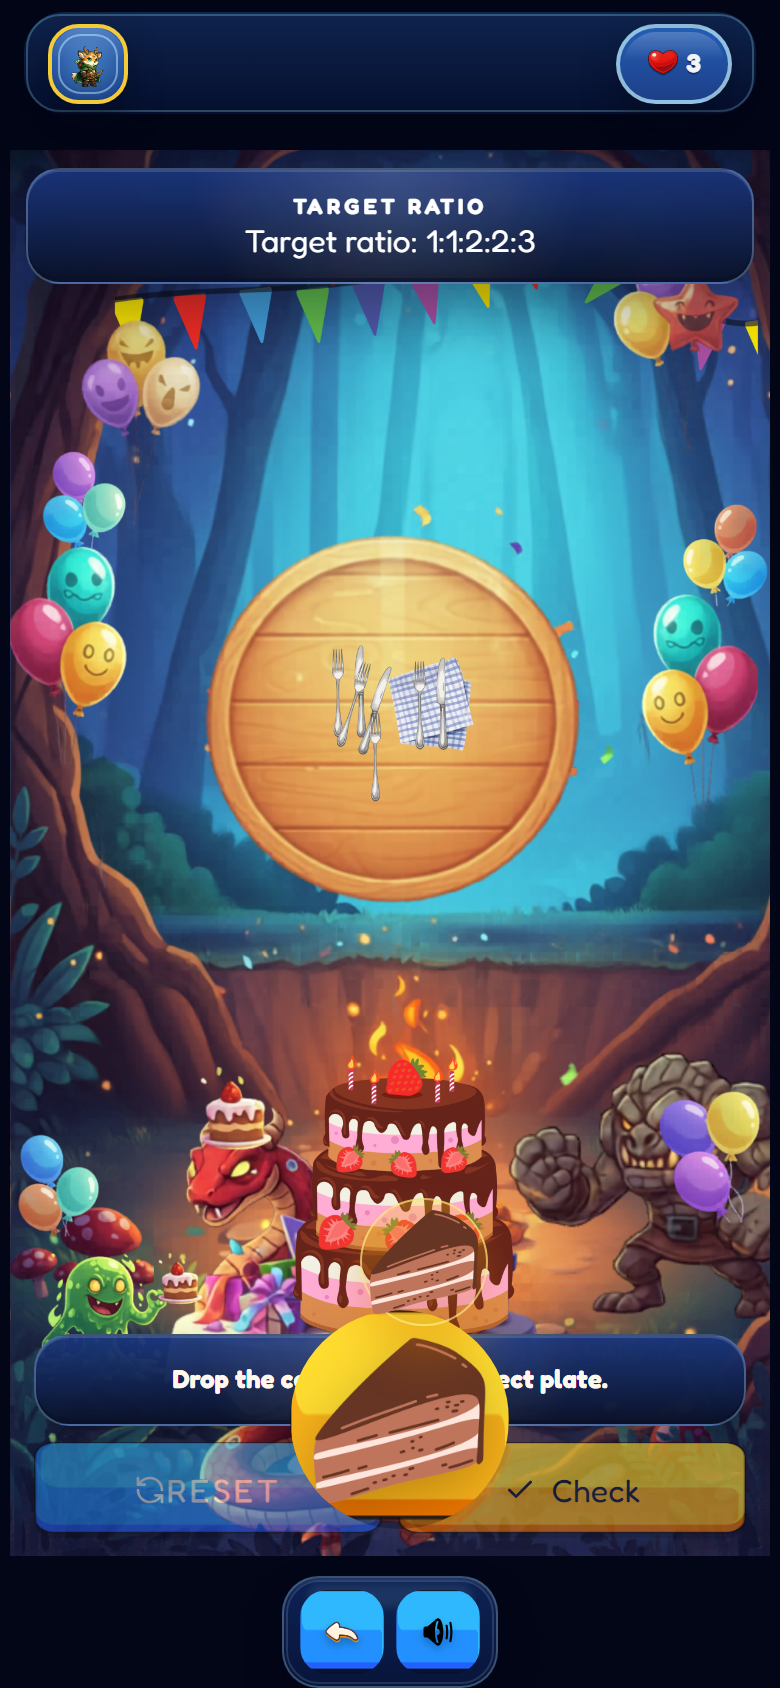
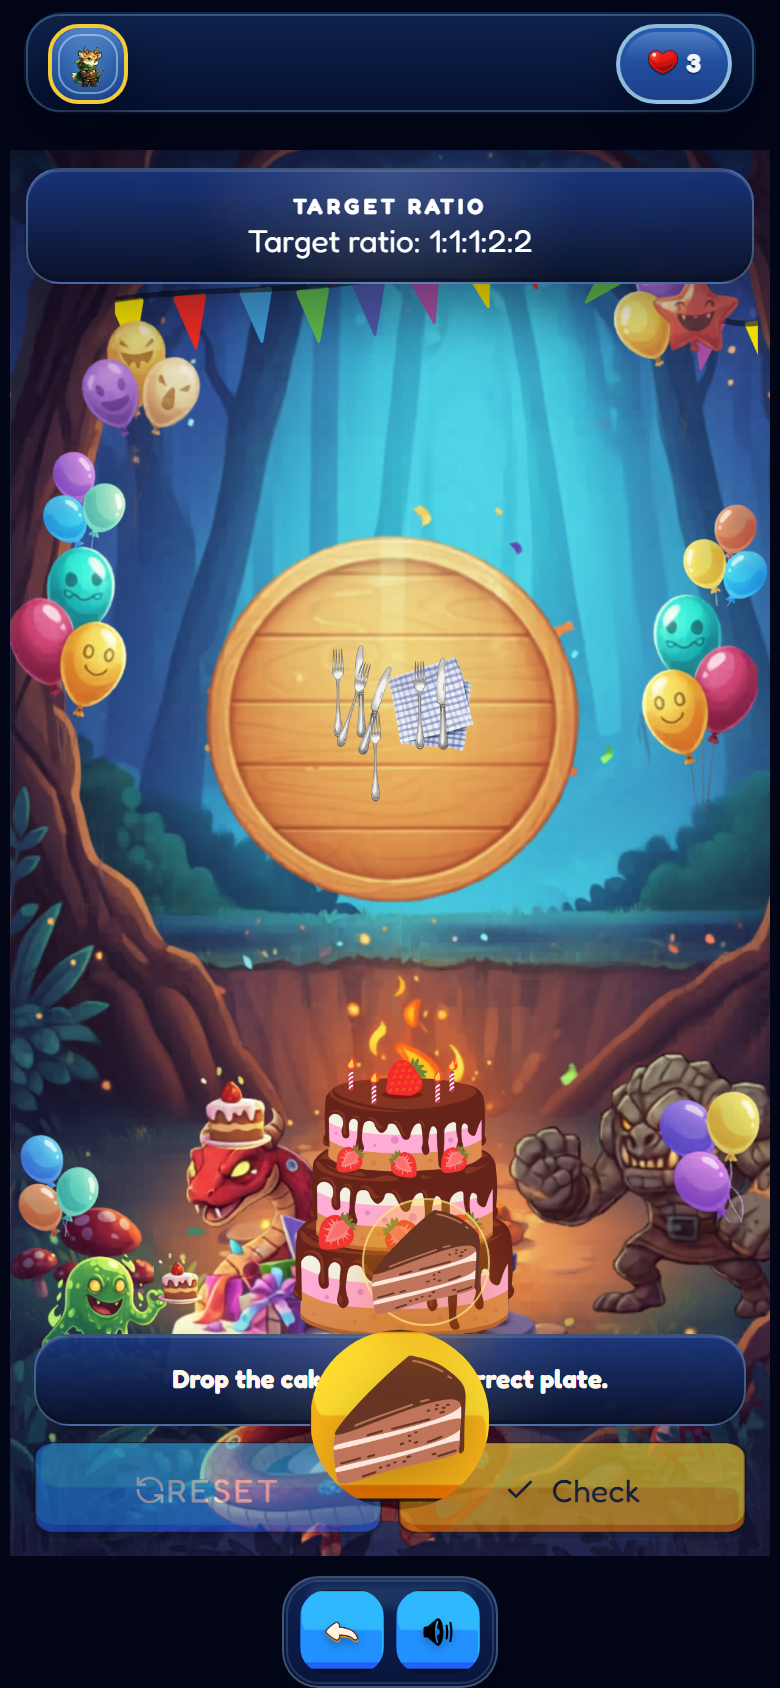
splitter

Changed region(s): [[0.3692, 0.7085, 0.6769, 0.9242], [0.3077, 0.1232, 0.6769, 0.154]]

diff --git a/src/games/ShareSplitterGame.tsx b/src/games/ShareSplitterGame.tsx
@@ -304,13 +304,16 @@ const ShareSplitterGame: React.FC<ShareSplitterGameProps> = ({
   const allSlicesUsed = remainingSlices === 0;
   const allCorrect = plateViews.every((plate) => plate.isCorrect);
   const platePositions = PLATE_POSITIONS_BY_COUNT[challenge.plateCount] || PLATE_POSITIONS_BY_COUNT[5];
+  const isCompactViewport = viewportRect.width < 520;
+  const plateLayoutScale = isCompactViewport ? 0.68 : 1;
+  const cakeSourceLayoutScale = isCompactViewport ? 0.76 : 1;
   const backgroundScale = Math.max(
     viewportRect.width / SHARE_SPLITTER_BACKGROUND_SIZE.width,
     viewportRect.height / SHARE_SPLITTER_BACKGROUND_SIZE.height,
   );
   const backgroundOffsetX = (viewportRect.width - (SHARE_SPLITTER_BACKGROUND_SIZE.width * backgroundScale)) / 2;
   const backgroundOffsetY = viewportRect.height - (SHARE_SPLITTER_BACKGROUND_SIZE.height * backgroundScale);
-  const plateSizePx = SHARE_SPLITTER_PLATE_DIAMETER_PX * backgroundScale;
+  const plateSizePx = SHARE_SPLITTER_PLATE_DIAMETER_PX * backgroundScale * plateLayoutScale;
   const promptText = isPractice
     ? `Target ratio: ${challenge.ratios.join(':')}`
     : `There are ${challenge.totalSlices} slices of brainpower cake.\nThe Monster Mind demands it is shared in a ratio of ${challenge.ratios.join(':')}.`;
@@ -334,11 +337,17 @@ const ShareSplitterGame: React.FC<ShareSplitterGameProps> = ({
     y: backgroundOffsetY + (point.y * backgroundScale),
   }), [backgroundOffsetX, backgroundOffsetY, backgroundScale]);
 
+  const getCakeSourceHitRect = useCallback(() => {
+    const cakeButton = cakeSourceButtonRef.current;
+    if (!cakeButton) return null;
+    return cakeButton.getBoundingClientRect();
+  }, []);
+
   const isPointInsideCakeSource = useCallback((clientX: number, clientY: number) => {
-    const center = mapBackgroundPointToViewport(CAKE_SOURCE_POSITION);
-    const radius = (CAKE_SOURCE_SIZE_PX * backgroundScale) / 2;
-    return Math.hypot(clientX - center.x, clientY - center.y) <= radius;
-  }, [backgroundScale, mapBackgroundPointToViewport]);
+    const rect = getCakeSourceHitRect();
+    if (!rect || rect.width <= 0 || rect.height <= 0) return false;
+    return clientX >= rect.left && clientX <= rect.right && clientY >= rect.top && clientY <= rect.bottom;
+  }, [getCakeSourceHitRect]);
 
   useEffect(() => {
     const handleGlobalPointerDown = (event: PointerEvent) => {
@@ -420,10 +429,6 @@ const ShareSplitterGame: React.FC<ShareSplitterGameProps> = ({
     sliceSeedRef.current += 1;
     const pointerId = 'pointerId' in event ? event.pointerId : 1;
     dragActiveRef.current = true;
-    const dragRevealThresholdPx = 6;
-    let dragOriginX = 0;
-    let dragOriginY = 0;
-    let dragHasBeenRevealed = false;
 
     const updatePosition = (clientX: number, clientY: number) => {
       setDragSlice({
@@ -431,16 +436,6 @@ const ShareSplitterGame: React.FC<ShareSplitterGameProps> = ({
         x: clientX - DRAG_SLICE_SIZE / 2,
         y: clientY - DRAG_SLICE_SIZE / 2,
       });
-    };
-
-    const revealDragSlice = (clientX: number, clientY: number) => {
-      if (dragHasBeenRevealed) return;
-      dragHasBeenRevealed = true;
-      updatePosition(clientX, clientY);
-      setFeedback('Drop the cake onto the correct plate.');
-      setFeedbackTone('neutral');
-      setValidationActive(false);
-      setHoverPlateIndex(null);
     };
 
     const getPlateCenter = (index: number) => {
@@ -487,20 +482,6 @@ const ShareSplitterGame: React.FC<ShareSplitterGameProps> = ({
     const finishDrag = (clientX: number, clientY: number) => {
       if (!dragActiveRef.current) return;
       dragActiveRef.current = false;
-      if (!dragHasBeenRevealed) {
-        setDragSlice(null);
-        setHoverPlateIndex(null);
-        window.removeEventListener('pointermove', handlePointerMove);
-        window.removeEventListener('pointerup', handlePointerUp);
-        window.removeEventListener('pointercancel', handlePointerCancel);
-        window.removeEventListener('touchmove', handleTouchMove);
-        window.removeEventListener('touchend', handleTouchEnd);
-        window.removeEventListener('touchcancel', handleTouchEnd);
-        window.removeEventListener('mousemove', handleMouseMove);
-        window.removeEventListener('mouseup', handleMouseUp);
-        window.removeEventListener('blur', handleMouseCancel);
-        return;
-      }
       const { index, distance } = getNearestPlate(clientX, clientY);
       const snapRadius = plateSizePx * 0.56;
       const hitIndex = getHitPlateIndex(clientX, clientY);
@@ -526,14 +507,6 @@ const ShareSplitterGame: React.FC<ShareSplitterGameProps> = ({
 
     const handlePointerMove = (moveEvent: PointerEvent) => {
       const point = getClientPoint(moveEvent);
-      if (!dragHasBeenRevealed) {
-        const distanceFromOrigin = Math.hypot(point.x - dragOriginX, point.y - dragOriginY);
-        if (distanceFromOrigin >= dragRevealThresholdPx) {
-          revealDragSlice(point.x, point.y);
-        } else {
-          return;
-        }
-      }
       updatePosition(point.x, point.y);
       const hitIndex = getHitPlateIndex(point.x, point.y);
       if (hitIndex >= 0) {
@@ -551,14 +524,6 @@ const ShareSplitterGame: React.FC<ShareSplitterGameProps> = ({
 
     const handleTouchMove = (touchEvent: TouchEvent) => {
       const point = getClientPoint(touchEvent);
-      if (!dragHasBeenRevealed) {
-        const distanceFromOrigin = Math.hypot(point.x - dragOriginX, point.y - dragOriginY);
-        if (distanceFromOrigin >= dragRevealThresholdPx) {
-          revealDragSlice(point.x, point.y);
-        } else {
-          return;
-        }
-      }
       updatePosition(point.x, point.y);
       const hitIndex = getHitPlateIndex(point.x, point.y);
       if (hitIndex >= 0) {
@@ -577,14 +542,6 @@ const ShareSplitterGame: React.FC<ShareSplitterGameProps> = ({
 
     const handleMouseMove = (mouseEvent: MouseEvent) => {
       const point = getClientPoint(mouseEvent);
-      if (!dragHasBeenRevealed) {
-        const distanceFromOrigin = Math.hypot(point.x - dragOriginX, point.y - dragOriginY);
-        if (distanceFromOrigin >= dragRevealThresholdPx) {
-          revealDragSlice(point.x, point.y);
-        } else {
-          return;
-        }
-      }
       updatePosition(point.x, point.y);
       const hitIndex = getHitPlateIndex(point.x, point.y);
       if (hitIndex >= 0) {
@@ -620,8 +577,11 @@ const ShareSplitterGame: React.FC<ShareSplitterGameProps> = ({
     };
 
     const startPoint = getClientPoint(event);
-    dragOriginX = startPoint.x;
-    dragOriginY = startPoint.y;
+    updatePosition(startPoint.x, startPoint.y);
+    setFeedback('Drop the cake onto the correct plate.');
+    setFeedbackTone('neutral');
+    setValidationActive(false);
+    setHoverPlateIndex(null);
     const currentTarget = event.currentTarget as HTMLElement & { setPointerCapture?: (pointerId: number) => void };
     if ('setPointerCapture' in currentTarget && 'pointerId' in event) {
       currentTarget.setPointerCapture?.(pointerId);
@@ -741,14 +701,14 @@ const ShareSplitterGame: React.FC<ShareSplitterGameProps> = ({
 
         <div
           className="h-full w-full"
-          style={{ paddingTop: `${Math.max(0, questionDockBottom + 20)}px` }}
+          style={{ paddingTop: `${Math.max(0, questionDockBottom + (isCompactViewport ? 14 : 20))}px` }}
         >
           <GameScreenLayout
-            className="px-3 pb-[calc(env(safe-area-inset-bottom)+0.6rem)] pt-0 text-white"
+            className={`px-3 pb-[calc(env(safe-area-inset-bottom)+${isCompactViewport ? '0.35rem' : '0.6rem'})] pt-0 text-white`}
             main={(
-              <div className="mx-auto grid h-full w-full max-w-[780px] min-h-0 grid-rows-[minmax(0,1fr)_auto] gap-2">
+              <div className={`mx-auto grid h-full w-full max-w-[780px] min-h-0 grid-rows-[minmax(0,1fr)_auto] ${isCompactViewport ? 'gap-1' : 'gap-2'}`}>
                 <div
-                  className="relative min-h-0 overflow-hidden rounded-[1.6rem] px-2 py-3 md:px-3"
+                  className={`relative min-h-0 overflow-hidden rounded-[1.6rem] ${isCompactViewport ? 'px-2 py-2' : 'px-2 py-3 md:px-3'}`}
                   onPointerDown={handleSourceAreaPointerDown}
                   onMouseDown={handleSourceAreaPointerDown}
                   onTouchStart={handleSourceAreaPointerDown}
@@ -823,8 +783,8 @@ const ShareSplitterGame: React.FC<ShareSplitterGameProps> = ({
                     style={{
                       left: `${mapBackgroundPointToViewport(CAKE_SOURCE_POSITION).x}px`,
                       top: `${mapBackgroundPointToViewport(CAKE_SOURCE_POSITION).y}px`,
-                      width: `${CAKE_SOURCE_SIZE_PX * backgroundScale}px`,
-                      height: `${CAKE_SOURCE_SIZE_PX * backgroundScale}px`,
+                      width: `${CAKE_SOURCE_SIZE_PX * backgroundScale * cakeSourceLayoutScale}px`,
+                      height: `${CAKE_SOURCE_SIZE_PX * backgroundScale * cakeSourceLayoutScale}px`,
                     }}
                     aria-label={remainingSlices > 0 ? 'Drag a slice from the cake' : 'No cake slices left'}
                   >
@@ -841,7 +801,7 @@ const ShareSplitterGame: React.FC<ShareSplitterGameProps> = ({
               </div>
             )}
             bottom={(
-              <div className="flex flex-col gap-2">
+              <div className={`flex flex-col ${isCompactViewport ? 'gap-1.5' : 'gap-2'}`}>
                 <section className="min-h-[2.6rem]">
                   {feedback.trim().length > 0 ? (
                     <AnimatePresence mode="wait">
@@ -862,7 +822,7 @@ const ShareSplitterGame: React.FC<ShareSplitterGameProps> = ({
                   ) : null}
                 </section>
 
-                <section className="grid grid-cols-2 gap-2">
+                <section className={`grid grid-cols-2 ${isCompactViewport ? 'gap-1.5' : 'gap-2'}`}>
                   <SecondaryButton onClick={resetAllocation} disabled={locked || moveHistory.length === 0}>
                     <RefreshCcw className="h-4 w-4" />
                     Reset
